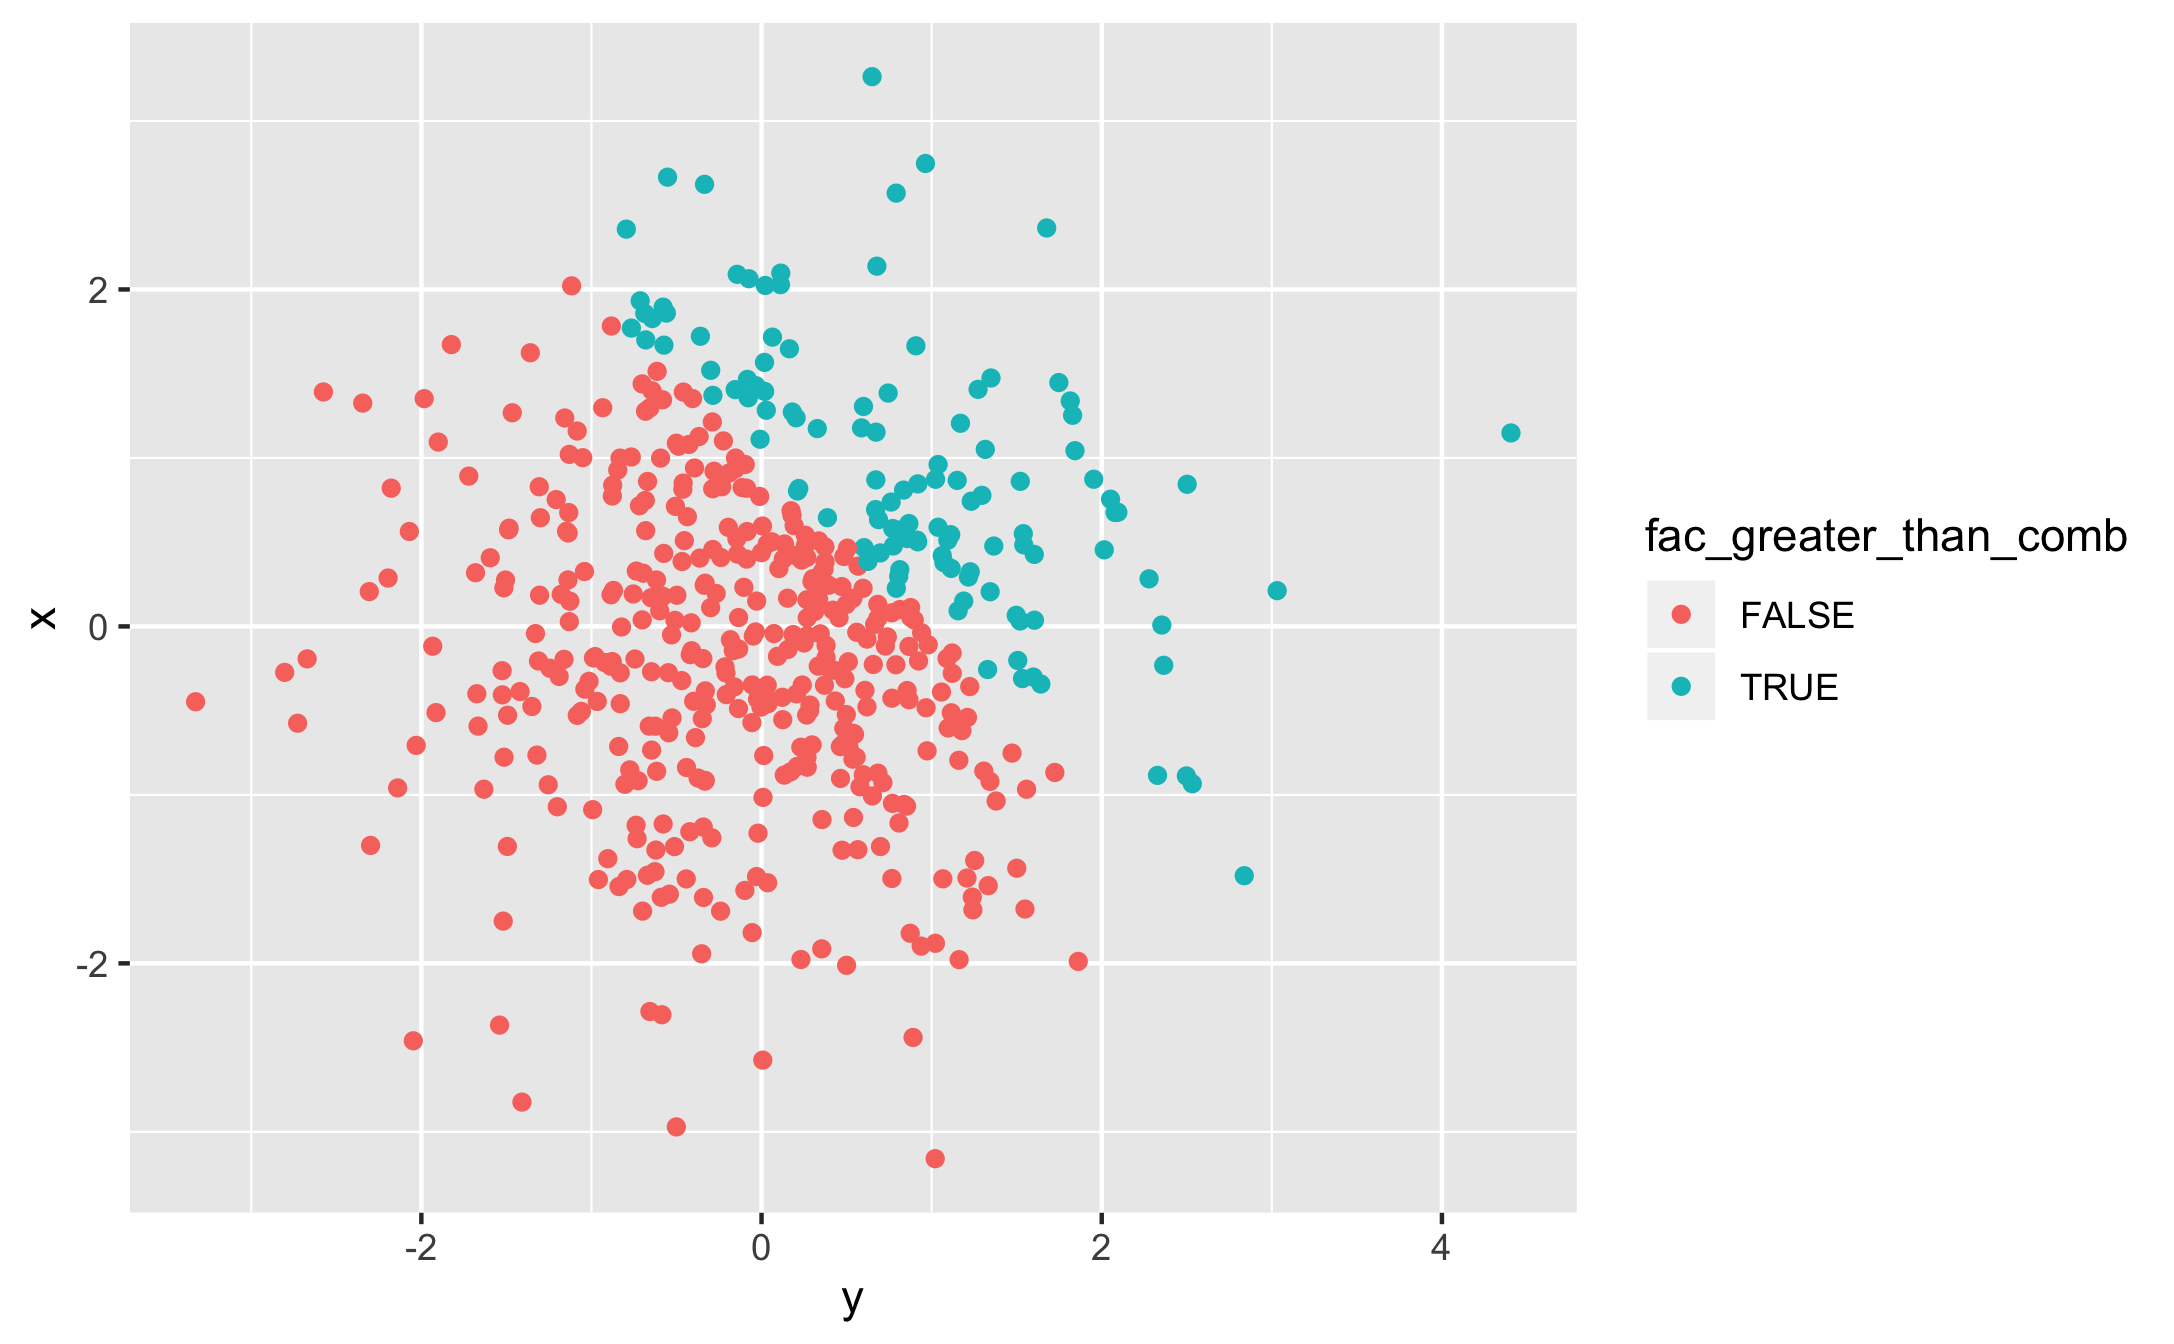
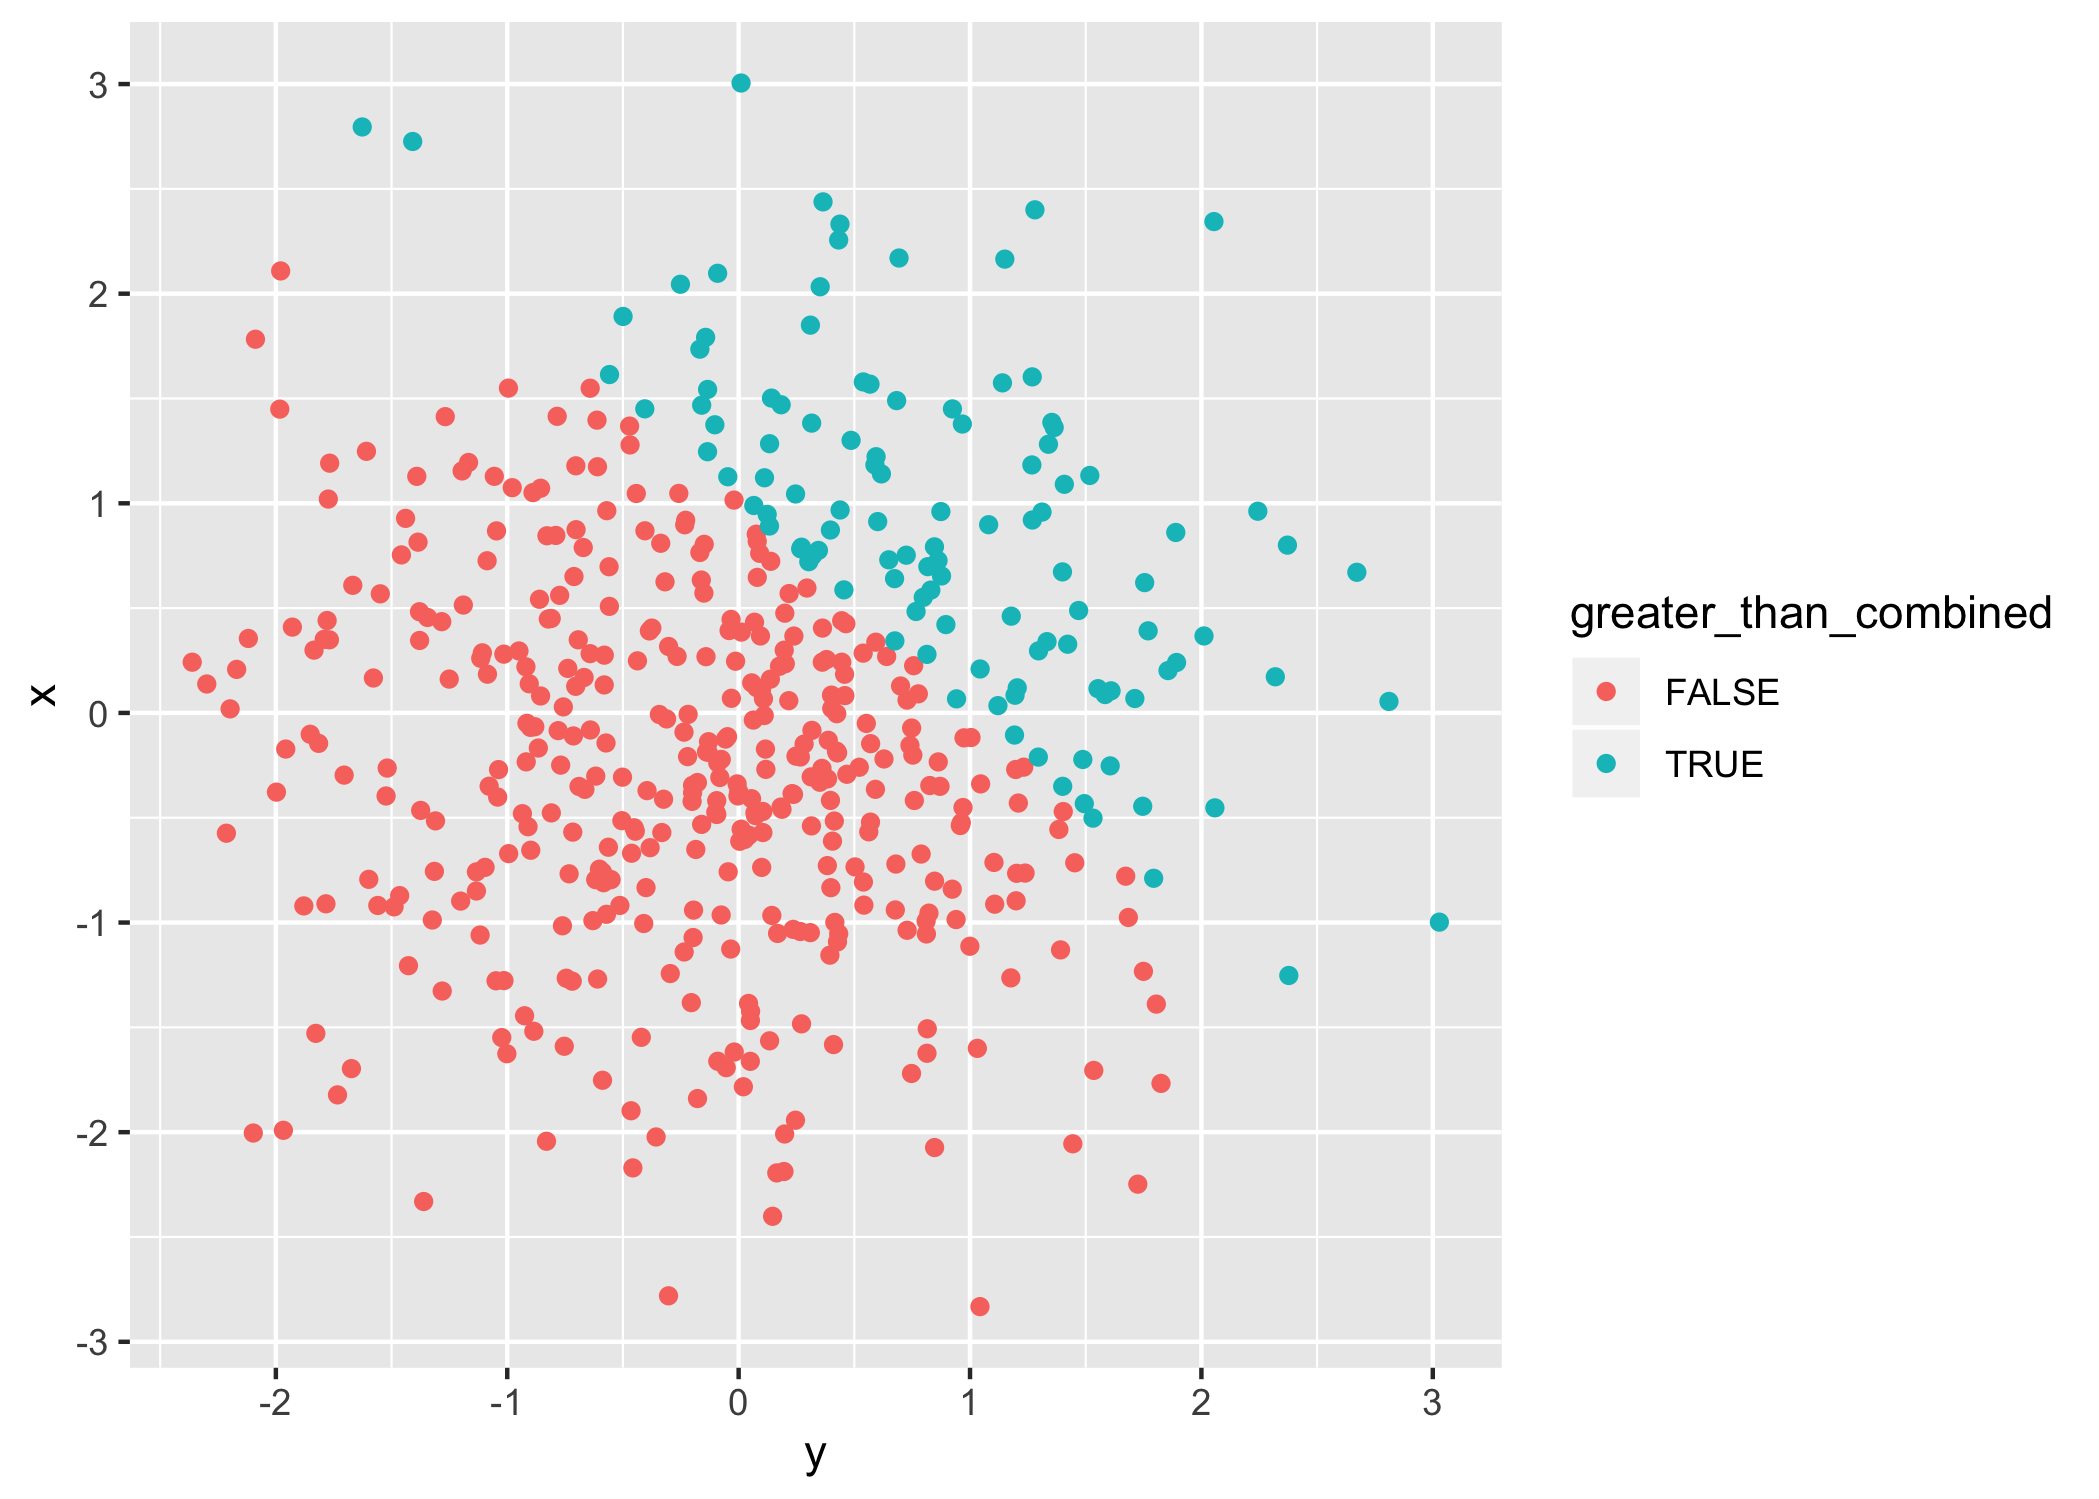
Updated logical plot

diff --git a/p8105_hw1_stl2137.md b/p8105_hw1_stl2137.md
@@ -16,13 +16,13 @@ hw1q1_df <- tibble(
 mean(pull(hw1q1_df, random_normsample))
 ```
 
-    ## [1] 0.04956181
+    ## [1] 0.2958425
 
 ``` r
 mean(pull(hw1q1_df, pos_random_normsample))
 ```
 
-    ## [1] 0.625
+    ## [1] 0.5
 
 ``` r
 mean(pull(hw1q1_df, charac_vector))
@@ -68,8 +68,8 @@ num_pos_random_normsample <- as.numeric(pull(hw1q1_df, pos_random_normsample))
 num_pos_random_normsample*(pull(hw1q1_df, random_normsample))
 ```
 
-    ## [1] 0.00000000 0.24608758 1.41156874 1.38402806 0.00000000 0.06442809
-    ## [7] 0.00000000 1.66697436
+    ## [1] 0.0000000 0.0000000 1.2271488 1.2589965 0.8540386 0.0000000 0.7231598
+    ## [8] 0.0000000
 
 ``` r
 # Logical vector to factor, multiply random sample by result
@@ -88,8 +88,8 @@ num_fac_pos_random_normsample <- as.numeric(fac_pos_random_normsample)
 num_fac_pos_random_normsample*(pull(hw1q1_df, random_normsample))
 ```
 
-    ## [1] -1.4283752  0.4921752  2.8231375  2.7680561 -1.0698989  0.1288562
-    ## [7] -1.8783182  3.3339487
+    ## [1] -0.6253519 -0.5838135  2.4542976  2.5179930  1.7080771 -0.2350727
+    ## [7]  1.4463196 -0.2523659
 
 # Homework 1 Question 2
 
@@ -108,9 +108,9 @@ hw1q2_df <- tibble(
   - The size of the dataset is 500 observations and 5 variables.
 
   - The mean, median, and standard deviation of x are respectively
-    -0.011951, -0.0238393, and 1.0393179.
+    -0.0430722, -0.0881015, and 0.9863892.
 
-  - The proportion of cases which `x + y > 1` is true is 0.238.
+  - The proportion of cases which `x + y > 1` is true is 0.228.
 
 ## Scatterplots of y vs x
 
@@ -120,6 +120,12 @@ ggplot(hw1q2_df, aes(x = y, y = x, color = greater_than_combined)) +
 ```
 
 ![](p8105_hw1_stl2137_files/figure-gfm/unnamed-chunk-6-1.png)<!-- -->
+
+``` r
+ggsave("logical_plot.png")
+```
+
+    ## Saving 7 x 5 in image
 
 ``` r
 ggplot(hw1q2_df, aes(x = y, y = x, color = num_greater_than_comb)) +
@@ -134,13 +140,6 @@ ggplot(hw1q2_df, aes(x = y, y = x, color = fac_greater_than_comb)) +
 ```
 
 ![](p8105_hw1_stl2137_files/figure-gfm/unnamed-chunk-6-3.png)<!-- -->
-
-``` r
-ggsave("logical_plot.png")
-```
-
-    ## Saving 7 x 5 in image
-
 The scatterplots color distribution looks the same, but the scale legend
 for the numerical variable is continuous while the scales legends for
 the logical and factor are binary.
